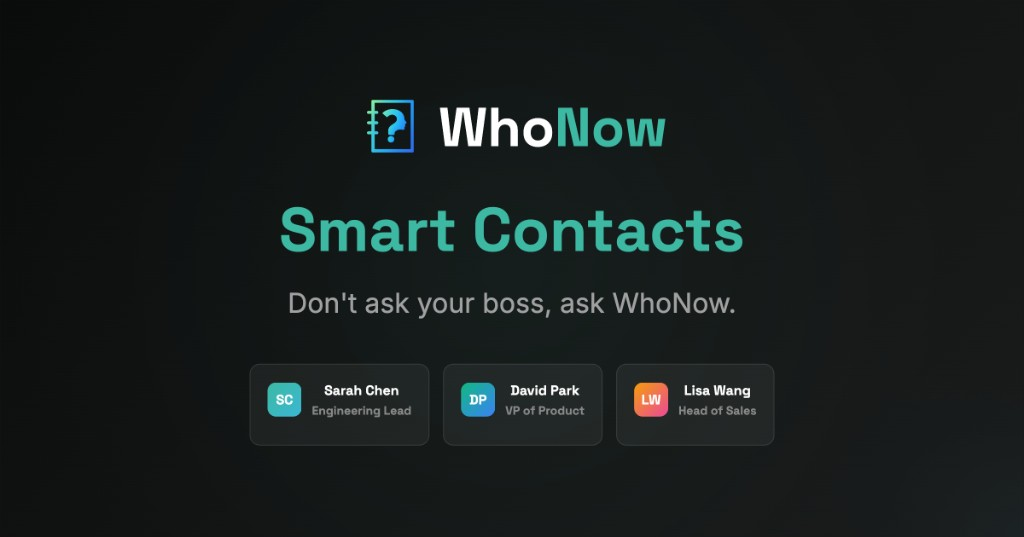
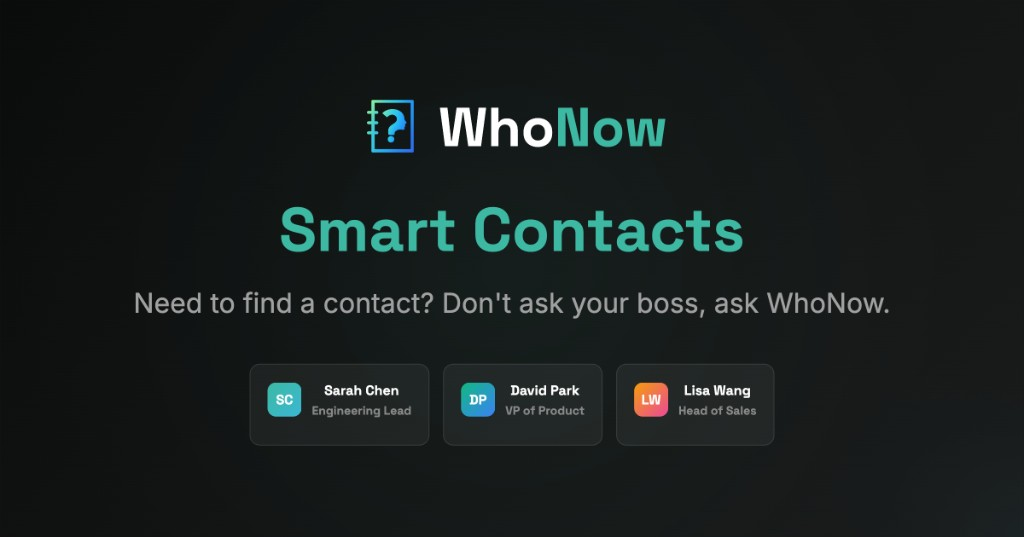
Update OG image: new tagline and assets
- Tagline: 'Need to find a contact? Don't ask your boss, ask WhoNow.'
- Replace og-image.png and twitter-image.png with new export

Changed region(s): [[0.125, 0.5363, 0.875, 0.5959]]

diff --git a/generate-og-image.html b/generate-og-image.html
@@ -299,7 +299,7 @@
                     <span class="gradient">Smart Contacts</span>
                 </h1>
                 <p class="subheadline">
-                    Don't ask your boss, ask WhoNow.
+                    Need to find a contact? Don't ask your boss, ask WhoNow.
                 </p>
                 <div class="demo-preview">
                     <div class="demo-card">
